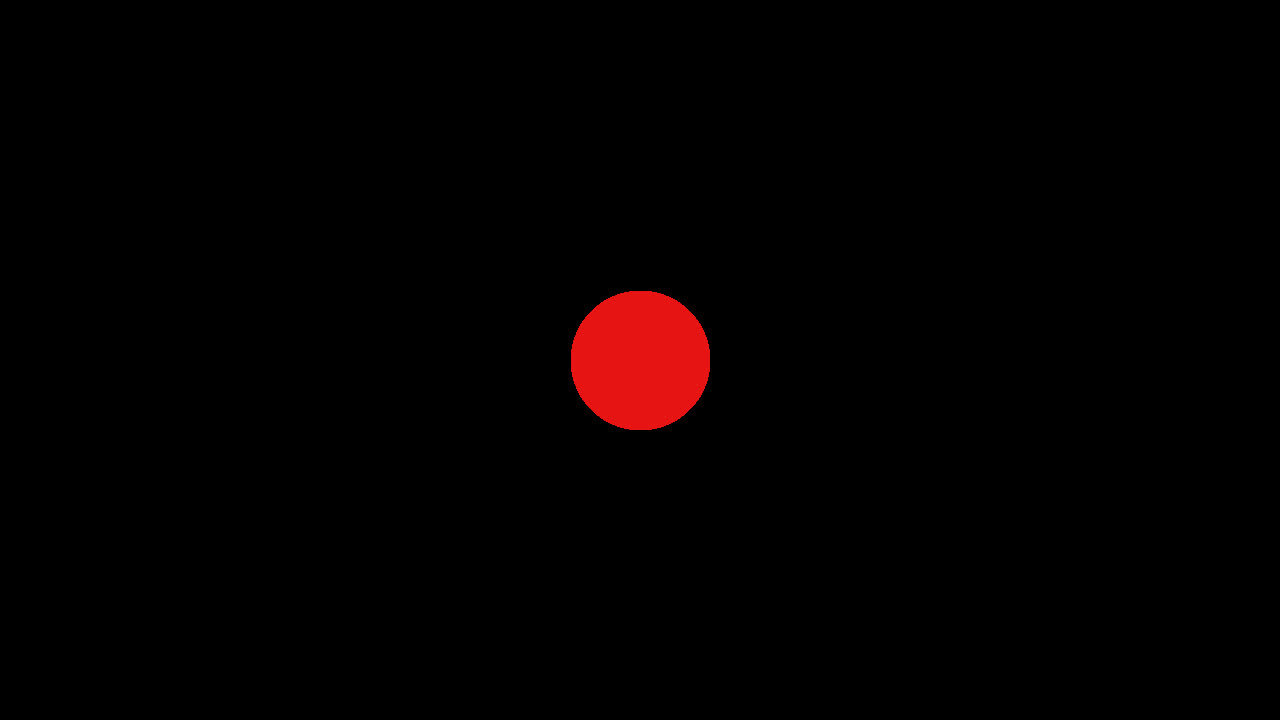
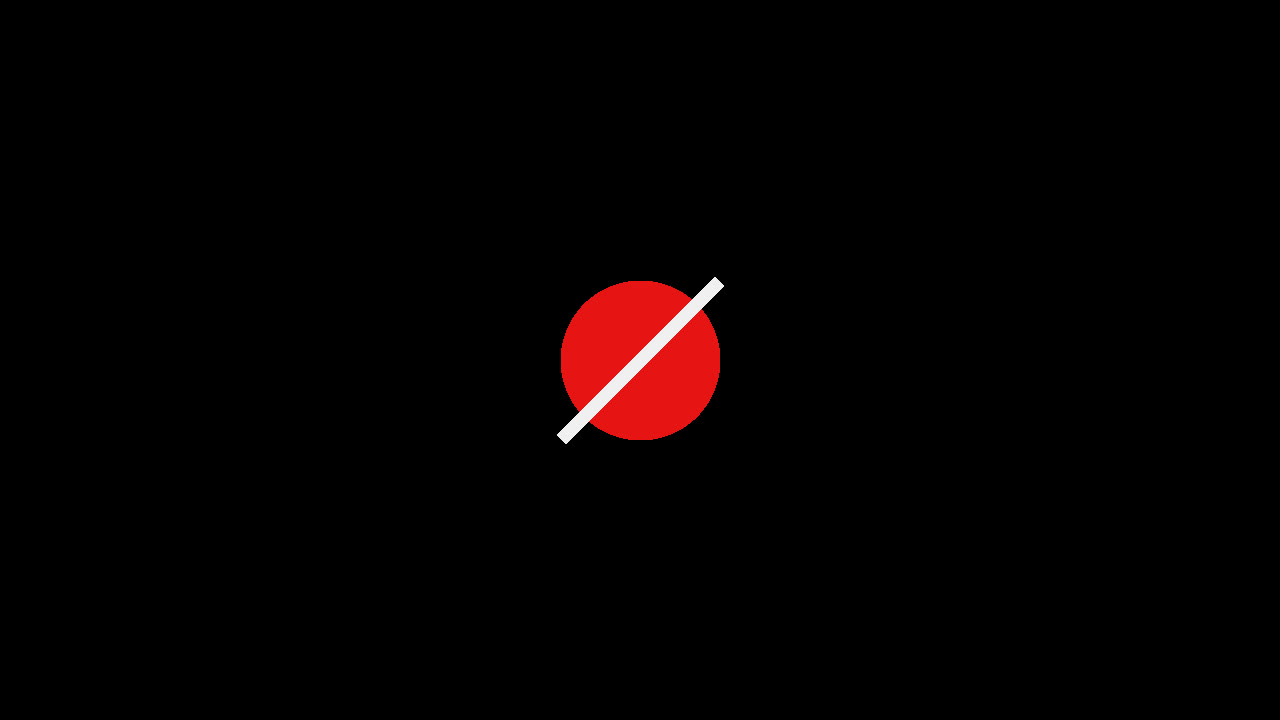
Privacy picture: cross out the red dot
Claude-Session: https://claude.ai/code/session_01RsZwP8rw9Jp7aYD3P67XF8

Changed region(s): [[0.4375, 0.3667, 0.5625, 0.6111]]

diff --git a/CHANGELOG.md b/CHANGELOG.md
@@ -21,7 +21,7 @@ Pairs with a `wyze-api` newer than `2.0.0-beta.3`; with beta.3 the bulk read bel
 - **A Motion Sensor and a Sound Sensor are added to each camera that has the events.** `motionSensor` and `soundSensor` per camera are now `auto` (the default: added when the camera's last week of events shows events of that kind), `on` or `off`. `true` still means `on`, and a saved `false` means `auto`. A sensor reacts only to an event less than 30 seconds old, so reading the same older events again never switches it. With the Sound Sensor on, sound no longer switches that camera's Motion Sensor or refreshes its picture.
 - **The settings panel warns when a camera's sound recording is off.** The plugin reads the camera's sound-recording setting once at startup and records it in its note. With it off, the camera's Sound pill is shown greyed out and unclickable with a warning, because Wyze lists no sound events then. The panel leaves that sensor's setting as it is when you save.
 - **Behavior change: the Privacy switch is now on when the camera is off.** It used to be on when the camera was on, the opposite of its name. Turning Privacy on powers the camera off, turning it off powers it on, and an automation or scene that used the old direction needs flipping.
-- **A camera switched off with its Privacy switch shows a black picture with a red dot in the Home app,** instead of its last picture (which looked live). The plugin also updates its own idea of the camera's power as soon as Wyze accepts the switch, rather than at the next minute check.
+- **A camera switched off with its Privacy switch shows a black picture with a crossed-out red dot in the Home app,** instead of its last picture (which looked live). The plugin also updates its own idea of the camera's power as soon as Wyze accepts the switch, rather than at the next minute check.
 - **Each camera card shows its Cam Plus plan, and the log warns about a missing, lapsed or soon-ending one.** The plugin reads the account's plans once at startup (needs a `wyze-api` with `getCamPlusPlans`; with an older one the lookup is skipped quietly) and shows "Cam Plus: Annual Plan, until 2027-03-03", or "No Cam Plus plan" with the note that Wyze then lists about one event per 5 minutes. It only reports; sensors are still added from the events a camera really has. The panel also shows one line per live plan (seats used, cameras, end date), and the log gives a camera on a live plan an info line.
 - **Sensors stay on for 2 minutes** (`advanced.sensorHoldSeconds`, 5 to 3600) for Motion, Sound and the detection sensors, counted from the time of the event on Wyze's clock and not from when the plugin noticed it. A newer event extends it; an event whose hold has already passed does not switch a sensor on.
 - **Person, Vehicle, Pet and Package sensors** for a camera whose events carry Wyze's AI labels (a Wyze plan with AI detection), with the same rules as Motion and Sound. `detections` per camera is empty (automatic: a sensor for each of those four labels the camera's last week of events carries), a list such as `["person", "pet", "face"]` for exactly those, or `["none"]`. Face is available only by naming it, and only labels the plugin has a name for can become sensors, so a camera never gets a tile per label Wyze invents. The log names the labels each camera's events carry and mentions Face events when they exist. The plugin's settings page in the Homebridge UI has a **Detected sensors** panel that lists what each camera has, with Motion and Sound boxes beside the labels, and saves a choice into the camera's `detections`, `motionSensor` and `soundSensor`; it reads a note the plugin leaves in Homebridge's storage folder (`homebridge-wyze-smart-home/detected-sensors.json`). The plugin never writes your `config.json` itself. The panel checks each change before saving it and saves nothing if a check fails or cannot be completed; the plugin's own note is likewise written only for an entry that passes its checks. New dependency: `@homebridge/plugin-ui-utils`.
